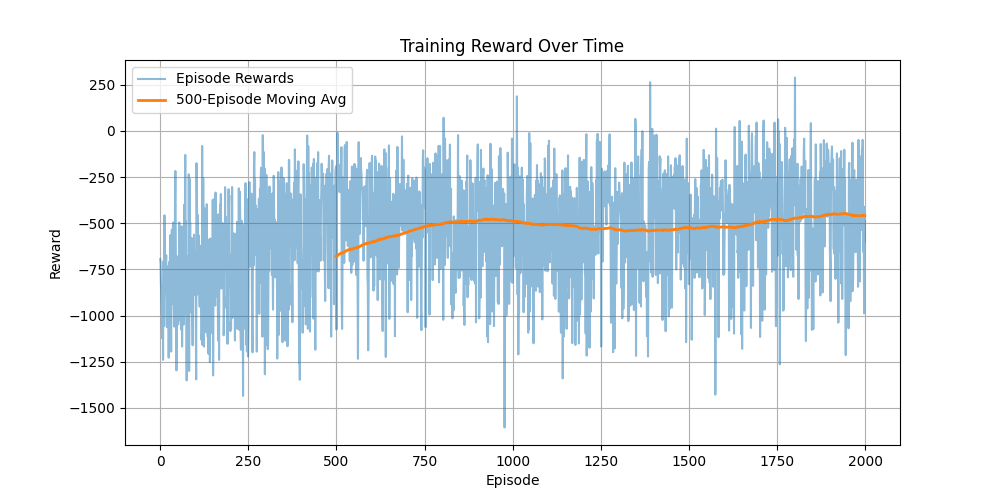
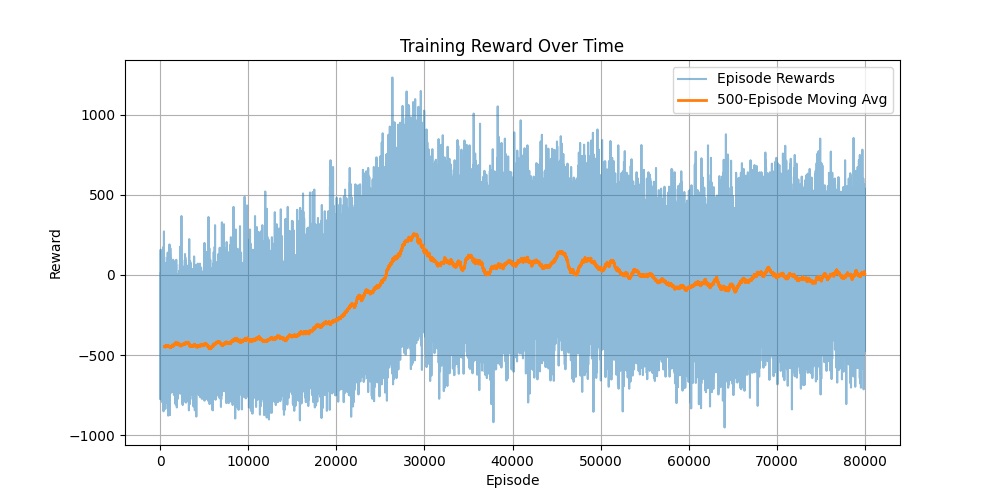
got satisfactory result with double dqns method

diff --git a/main.py b/main.py
@@ -1,8 +1,10 @@
 import os
+import time
 import numpy as np
 import matplotlib.pyplot as plt
 import torch
 import pygame
+from collections import deque
 from env import Environment
 from dqn import Agent
 
@@ -27,37 +29,38 @@ env = Environment()
 
 # init agent and hyperparameters
 agent = Agent(
-    input_dim=13,
+    input_dim=15,
     output_dim=4,
     hidden_dim=128,
     buffer_size=2000,
     batch_size=128,
     gamma=0.99,
     lr=1e-3,
-    update_every=50
+    update_every=100
 )
 
 # hyperparameters
 max_steps_per_episode = 1000  # 1000
-num_episodes = 50000  # 20000
+num_episodes = 80_000  # 20000
 
 epsilon_start = 1.0
 epsilon_end = 0.05
-epsilon_decay_episodes = 2000  # 2000
+epsilon_decay_episodes = 35_000  # 2000
 
 train_every = 4
 warmup_steps = 1000
-save_interval = 100
+save_interval = 500
 render = False
 
-threshold_score = 2
-score_check_interval = 5
-score_window = 0
+threshold_score = 4
+score_window = 30
+total_score_window = deque(maxlen=score_window)
 
 if render:
     env.screen = pygame.display.set_mode((env.screen_width, env.screen_height))
     env.font = pygame.font.SysFont("Arial", 18)
 
+# initial environment
 env.max_chaser_speed = 10
 env.max_runner_speed = 5
 env.friction = 1
@@ -69,6 +72,8 @@ global_step = 0
 
 # training loop
 for episode in range(num_episodes):
+    start_time = time.time()
+
     env.reset()
     state, _ = env.update()
     total_reward = 0
@@ -83,6 +88,7 @@ for episode in range(num_episodes):
             state["chaser_vel"][0], state["chaser_vel"][1],
             state["distances"][0], state["distances"][1],
             state["distances"][2], state["distances"][3],
+            state["max_runner_speed"], state["max_chaser_speed"],
             state["friction"]
         ], dtype=np.float32)
 
@@ -99,6 +105,7 @@ for episode in range(num_episodes):
             next_state["chaser_vel"][0], next_state["chaser_vel"][1],
             next_state["distances"][0], next_state["distances"][1],
             next_state["distances"][2], next_state["distances"][3],
+            next_state["max_runner_speed"], next_state["max_chaser_speed"],
             next_state["friction"]
         ], dtype=np.float32)
 
@@ -118,28 +125,34 @@ for episode in range(num_episodes):
         global_step += 1
 
     episode_rewards.append(total_reward)
+    total_score_window.append(env.score)
 
-    score_window += env.score
-
-    if total_reward > max_reward:
-        max_reward = total_reward
-        torch.save(agent.q_net.state_dict(), f"{attempt_dir}/best_q_network_ep{episode + 1}.pth")
-        print(f"New High Score! Saved model at episode {episode + 1}")
+    episode_time = time.time() - start_time
 
     if (episode + 1) % save_interval == 0:
         torch.save(agent.q_net.state_dict(), f"{attempt_dir}/q_network_ep{episode + 1}.pth")
         print(f"Model saved at episode {episode + 1}")
 
-    if (episode + 1) % score_check_interval == 0 and (score_window / score_check_interval) >= threshold_score:
-        score_window = 0
-        env.friction = max(0.2, env.friction - 0.05)
-        env.max_chaser_speed = min(25, env.max_chaser_speed + 2)
-        env.max_runner_speed = min(15, env.max_runner_speed + 2)
-        print("Score threshold corssed, increasing difficulty")
+    if len(total_score_window) == score_window:
+        avg_score = sum(total_score_window) / score_window
+        if avg_score >= threshold_score:
+            total_score_window.clear()
+
+            env.friction = max(0.2, env.friction - 0.05)
+            env.max_chaser_speed = min(30, env.max_chaser_speed + 0.5)
+            env.max_runner_speed = min(20, env.max_runner_speed + 0.5)
+
+            print(
+                f"Score threshold crossed → difficulty up!\n"
+                f"    Max chaser speed: {env.max_chaser_speed} (+0.5)\n"
+                f"    Max runner speed: {env.max_runner_speed} (+0.5)\n"
+                f"    Friction: {env.friction} (-0.05)\n"
+            )
+            torch.save(agent.q_net.state_dict(), f"{attempt_dir}/best_q_network_ep{episode + 1}.pth")
 
     epsilon = max(epsilon_end, epsilon_start - (episode / epsilon_decay_episodes) * (epsilon_start - epsilon_end))
 
-    print(f"Episode {episode + 1}/{num_episodes} | Reward: {total_reward:.2f} | Epsilon: {epsilon:.3f} | Score: {env.score}")
+    print(f"Episode {episode + 1}/{num_episodes} | Reward: {total_reward:.2f} | Epsilon: {epsilon:.3f} | Score: {env.score} | Avg Score (last 30): {sum(total_score_window) / score_window:.2f} | Time: {episode_time:.2f}s")
 
 pygame.quit()
 

diff --git a/env.py b/env.py
@@ -213,12 +213,12 @@ class Environment:
                 self.chaser_pos[1] / self.screen_height
             ],
             "runner_vel": [
-                self.runner_vel[0] / self.max_runner_speed,
-                self.runner_vel[1] / self.max_runner_speed
+                self.runner_vel[0] / 20,
+                self.runner_vel[1] / 20,
             ],
             "chaser_vel": [
-                self.chaser_vel[0] / self.max_chaser_speed,
-                self.chaser_vel[1] / self.max_chaser_speed
+                self.chaser_vel[0] / 30,
+                self.chaser_vel[1] / 30,
             ],
             "distances": [
                 (self.runner_pos[0] - self.border_width) / (self.screen_width - 2 * self.border_width),
@@ -226,7 +226,9 @@ class Environment:
                 (self.runner_pos[1] - self.border_width) / (self.screen_height - 2 * self.border_width),
                 (self.screen_height - self.border_width - self.runner_pos[1]) / (self.screen_height - 2 * self.border_width)
             ],
-            "friction": self.friction
+            "friction": self.friction,
+            "max_runner_speed": self.max_runner_speed / 20,
+            "max_chaser_speed": self.max_chaser_speed / 30,
         }
 
         return state, reward

diff --git a/viz.py b/viz.py
@@ -9,19 +9,20 @@ env = Environment()
 
 env.screen = pygame.display.set_mode((env.screen_width, env.screen_height))
 env.font = pygame.font.SysFont("Arial", 18)
-env.max_runner_speed = 5
-env.max_chaser_speed = 10
-env.friction = 0.5
+
+# env.max_runner_speed = 5
+# env.max_chaser_speed = 10
+env.friction = 1
 
 clock = pygame.time.Clock()
 
 agent = Agent(
-    input_dim=13,
+    input_dim=15,  # 15
     output_dim=4,
     hidden_dim=128,
 )
 
-agent.q_net.load_state_dict(torch.load("weights/attempt-3/best_q_network_ep1802.pth", map_location=agent.device))
+agent.q_net.load_state_dict(torch.load("weights/attempt-6/q_network_ep79500.pth", map_location=agent.device))
 agent.q_net.eval()
 
 
@@ -41,6 +42,7 @@ while running:
         state["chaser_vel"][0], state["chaser_vel"][1],
         state["distances"][0], state["distances"][1],
         state["distances"][2], state["distances"][3],
+        state["max_runner_speed"], state["max_chaser_speed"],
         state["friction"]
     ], dtype=np.float32)
 

diff --git a/test_game.py b/test_game.py
@@ -11,9 +11,9 @@ env.font = pygame.font.SysFont("Arial", 18)
 
 clock = pygame.time.Clock()
 
-env.max_runner_speed = 5
-env.max_chaser_speed = 10
-env.friction = 0
+# env.max_runner_speed = 5
+# env.max_chaser_speed = 10
+env.friction = 1
 
 running = True
 while running:
